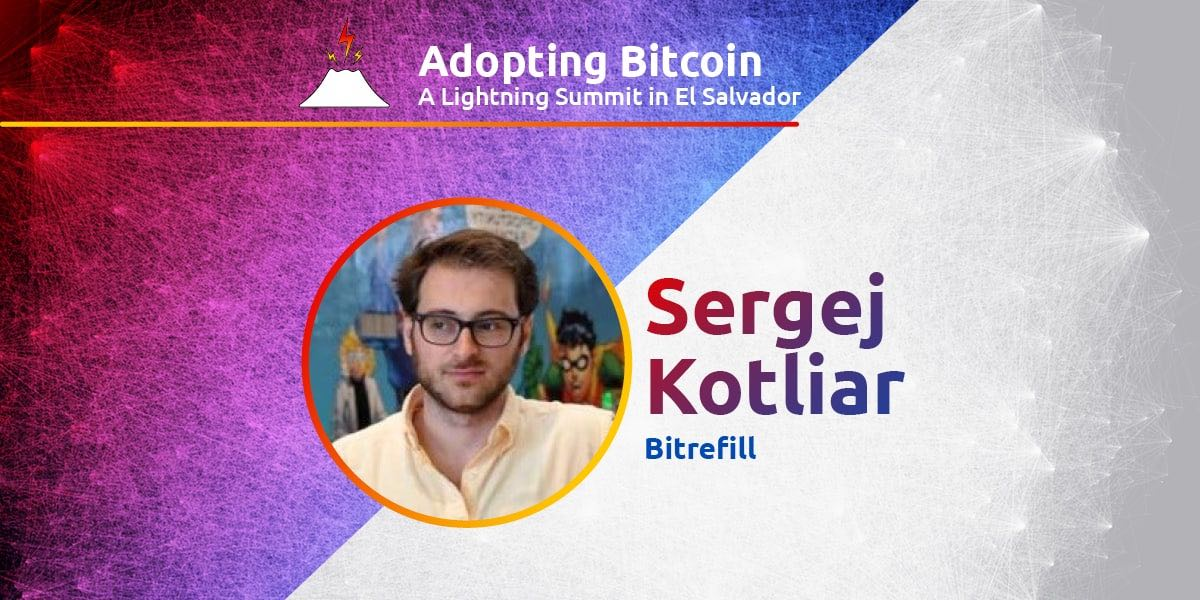
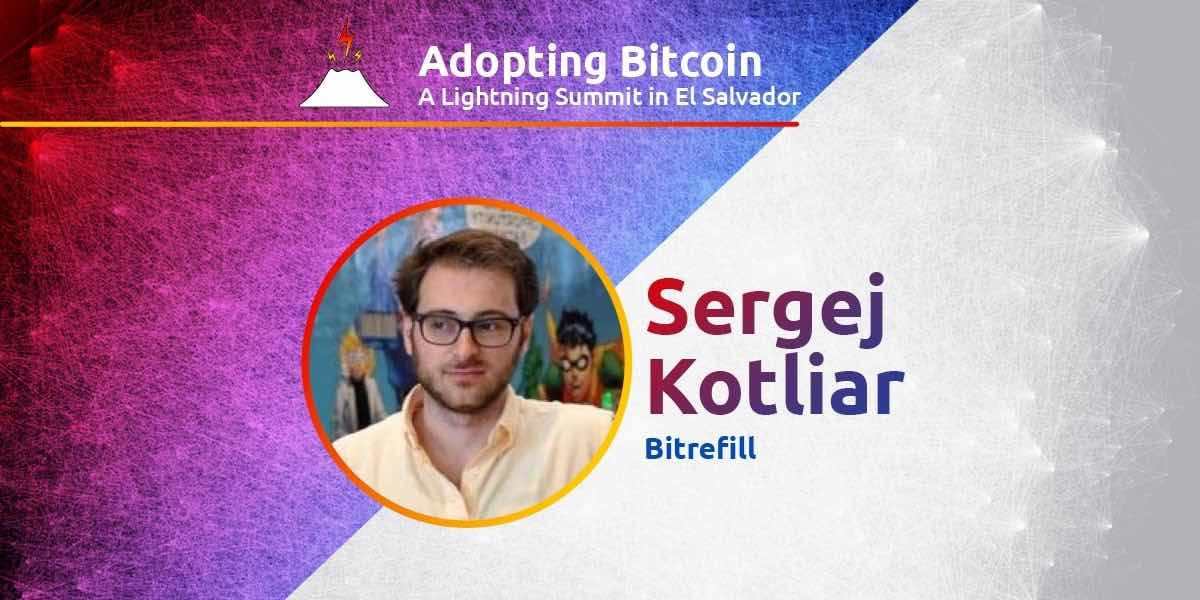
meta images & optimisation

diff --git a/components/HomeComponents/ContactUs.vue b/components/HomeComponents/ContactUs.vue
@@ -43,12 +43,12 @@
         <NuxtLink to="/faq">
           {{ $t('menu.faq') }}
         </NuxtLink>
-<!--        <NuxtLink to="/press-kit">-->
-<!--          {{ $t('menu.forpress') }}-->
-<!--        </NuxtLink> |-->
-<!--        <NuxtLink to="/sponsor-kit">-->
-<!--          {{ $t('menu.forsponsors') }}-->
-<!--        </NuxtLink>-->
+        <!--        <NuxtLink to="/press-kit">-->
+        <!--          {{ $t('menu.forpress') }}-->
+        <!--        </NuxtLink> |-->
+        <!--        <NuxtLink to="/sponsor-kit">-->
+        <!--          {{ $t('menu.forsponsors') }}-->
+        <!--        </NuxtLink>-->
       </div>
       <div class="text-center md:text-left md:float-right my-5">
         <a href="https://galoy.io/" target="_blank"><span class="text-xs">hosted by</span> <span class="font-bold text-xl">galoy.io</span></a>

diff --git a/pages/speaker/_slug.vue b/pages/speaker/_slug.vue
@@ -35,7 +35,7 @@ export default {
   head () {
     const i18nHead = this.$nuxtI18nHead({ addSeoAttributes: true })
     const speakerName = this.speaker.name.replace(/<[^>]*>?/gm, '')
-    const metaImage = this.speaker.metaImage ? 'https://' + process.env.domain + '/speaker-meta/' + this.speaker.metaImage : 'https://' + process.env.domain + '/adopting_bitcoin_meta_preview_q.jpg'
+    const metaImage = 'https://' + process.env.domain + '/speaker-meta/' + this.speaker.img
     return {
       htmlAttrs: {
         ...i18nHead.htmlAttrs

diff --git a/components/HomeComponents/Tickets.vue b/components/HomeComponents/Tickets.vue
@@ -29,7 +29,7 @@
       {{ $t('tickets.priceUp.title') }}
     </h2>
     <table class="mb-10">
-      <tr v-bind:key="price.text" v-for="price in $t('tickets.priceUp.prices')">
+      <tr v-for="price in $t('tickets.priceUp.prices')" :key="price.text">
         <td>
           <span v-html="price.text" />
         </td>

diff --git a/content/speakers/AntoinePoinsot.md b/content/speakers/AntoinePoinsot.md
@@ -1,7 +1,7 @@
 ---
 name: "Antoine <br>Poinsot"
 function: Revault
-img: antoinepoinsot1.png
+img: antoinepoinsot.jpg
 twitter: '@AntoinePoinsot'
 github: AntoinePoinsot
 linkedin: AntoinePoinsot

diff --git a/content/speakers/JehudiCastroSierra.md b/content/speakers/JehudiCastroSierra.md
@@ -1,7 +1,7 @@
 ---
 name: "Jehudi <br>Castro Sierra"
 function: Colombia
-img: jehudi-worked.jpg
+img: jehudicastrosierra.jpg
 twitter: '@JCastroS'
 github: 
 linkedin: jcastros

diff --git a/content/speakers/ChasePerkins.md b/content/speakers/ChasePerkins.md
@@ -5,7 +5,6 @@ img: chaseperkins.jpg
 twitter: '@chasethetruth'
 linkedin: chaseperkins007
 showPage: true
-metaImage: meta_chaseperkins.jpg
 ---
 
 # Chase Perkins

diff --git a/content/speakers/BenArc.md b/content/speakers/BenArc.md
@@ -6,7 +6,6 @@ twitter: '@arcbtc'
 github: arcbtc
 linkedin:
 showPage: true
-metaImage: meta_benarc.jpg
 ---
 
 # Ben Arc
